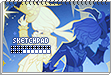
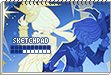
Fix furina

Changed region(s): [[0.0811, 0.6133, 0.4595, 0.72]]

diff --git a/public/cards/keepingcardsN-Z.html b/public/cards/keepingcardsN-Z.html
@@ -1,57 +1,62 @@
-<!DOCTYPE html>
+<!doctype html>
 <html>
     <head>
-        <meta charset="UTF-8">
-        <meta name="viewport" content="width=100%, initial-scale=.4">
+        <meta charset="UTF-8" />
+        <meta name="viewport" content="width=100%, initial-scale=.4" />
         <title>keeping cards N-Z</title>
-        <link href="style.css" rel="stylesheet" type="text/css" media="all">
-        <script type="text/javascript" src="UPDATEcolorstcgdeckdata.js"></script> <!-- DO NOT REMOVE -->
-        <script type="text/javascript" src="UPDATEkeepingcards.js"></script> <!-- DO NOT REMOVE -->
-        <script type="text/javascript" src="UPDATEplayerinfo.js"></script> <!-- DO NOT REMOVE -->
-        <script type="text/javascript" src="functions.js"></script> <!-- DO NOT REMOVE -->
+        <link href="style.css" rel="stylesheet" type="text/css" media="all" />
+        <script type="text/javascript" src="UPDATEcolorstcgdeckdata.js"></script>
+        <!-- DO NOT REMOVE -->
+        <script type="text/javascript" src="UPDATEkeepingcards.js"></script>
+        <!-- DO NOT REMOVE -->
+        <script type="text/javascript" src="UPDATEplayerinfo.js"></script>
+        <!-- DO NOT REMOVE -->
+        <script type="text/javascript" src="functions.js"></script>
+        <!-- DO NOT REMOVE -->
         <script>
             window.onload = () => {
                 setWebsiteHeader();
                 setCredits();
                 insertImages("keeping", "NZ"); // fullcollectioncontainer
-            }
-        </script> <!-- DO NOT REMOVE -->
+            };
+        </script>
+        <!-- DO NOT REMOVE -->
     </head>
     <body>
         <!-- website header including navigation bar -->
-        <center>
-        <div id="websiteheadercontainer"></div>
+        <div style="text-align: center">
+            <div id="websiteheadercontainer"></div>
 
-        <!-- rest of the website -->
-        <div id="middle" class="">
-            <p><b>N-Z keeping cards</b></p>
-            <p>duplicates:</p>
-            <textarea id="duplicatestextarea"></textarea>
+            <!-- rest of the website -->
+            <div id="middle" class="">
+                <p><b>N-Z keeping cards</b></p>
+                <p>duplicates:</p>
+                <textarea id="duplicatestextarea"></textarea>
 
-            <div>
-                <p style="display:inline-block;">show color:</p>
-                <input type="checkbox" id="showAll" name= "input" value="sort" checked>
-                <label for="showAll">all</label>
-                <input type="checkbox" id="showRed" name= "input" value="sort">
-                <label for="showRed">red</label>
-                <input type="checkbox" id="showOrange" name= "input" value="sort">
-                <label for="showOrange">orange</label>
-                <input type="checkbox" id="showYellow" name= "input" value="sort">
-                <label for="showYellow">yellow</label>
-                <input type="checkbox" id="showGreen" name= "input" value="sort">
-                <label for="showGreen">green</label>
-                <input type="checkbox" id="showBlue" name= "input" value="sort">
-                <label for="showBlue">blue</label>
-                <input type="checkbox" id="showPurple" name= "input" value="sort">
-                <label for="showPurple">purple</label>
-                <input type="checkbox" id="showBrown" name= "input" value="sort">
-                <label for="showBrown">brown</label>
-                <input type="checkbox" id="showGrey" name= "input" value="sort">
-                <label for="showGrey">grey</label>
-                <input type="checkbox" id="showSpecial" name= "input" value="sort">
-                <label for="showSpecial">special</label>
+                <div>
+                    <p style="display: inline-block">show color:</p>
+                    <input type="checkbox" id="showAll" name="input" value="sort" checked />
+                    <label for="showAll">all</label>
+                    <input type="checkbox" id="showRed" name="input" value="sort" />
+                    <label for="showRed">red</label>
+                    <input type="checkbox" id="showOrange" name="input" value="sort" />
+                    <label for="showOrange">orange</label>
+                    <input type="checkbox" id="showYellow" name="input" value="sort" />
+                    <label for="showYellow">yellow</label>
+                    <input type="checkbox" id="showGreen" name="input" value="sort" />
+                    <label for="showGreen">green</label>
+                    <input type="checkbox" id="showBlue" name="input" value="sort" />
+                    <label for="showBlue">blue</label>
+                    <input type="checkbox" id="showPurple" name="input" value="sort" />
+                    <label for="showPurple">purple</label>
+                    <input type="checkbox" id="showBrown" name="input" value="sort" />
+                    <label for="showBrown">brown</label>
+                    <input type="checkbox" id="showGrey" name="input" value="sort" />
+                    <label for="showGrey">grey</label>
+                    <input type="checkbox" id="showSpecial" name="input" value="sort" />
+                    <label for="showSpecial">special</label>
 
-                <!--<p style="display:inline-block; margin-left: 40px;">sort by</p>
+                    <!--<p style="display:inline-block; margin-left: 40px;">sort by</p>
                 <input type="radio" id="sortbyall" name= "input" value="sort" checked>
                 <label for="sortbyall">all</label>
                 <input type="radio" id="sortbycolors" name= "input" value="sort">
@@ -59,23 +64,18 @@
                 <input type="radio" id="sortbyseries" name= "input" value="sort">
                 <label for="sortbyseries">series</label>-->
 
-                <button onclick="filter()" style="padding: 10px; margin-left: 30px;">filter</button>
+                    <button onclick="filter()" style="padding: 10px; margin-left: 30px">filter</button>
 
-                <br>
+                    <br />
 
-                <p>search by card name, deck name, or series:</p>
-                <input id="searchbar" onkeyup="filter()" type="text"
-                name="search" placeholder="search...">
+                    <p>search by card name, deck name, or series:</p>
+                    <input id="searchbar" onkeyup="filter()" type="text" name="search" placeholder="search..." />
+                </div>
+
+                <div id="fullcollectioncontainer"></div>
             </div>
 
-            <div id="fullcollectioncontainer">
-            </div>
-
-
+            <div id="creditscontainer"><!-- DO NOT REMOVE --></div>
         </div>
-
-        <div id="creditscontainer"> <!-- DO NOT REMOVE -->
-        </div>
-        </center>
     </body>
 </html>

diff --git a/public/cards/log.html b/public/cards/log.html
@@ -1,9 +1,19 @@
 <!doctype html>
-<html>
+<html lang="en">
     <head>
+        <!-- Setting character encoding and viewport size. Do not remove. -->
         <meta charset="UTF-8" />
-        <meta name="viewport" content="width=100%, initial-scale=.4" />
+        <meta name="viewport" content="width=device-width, initial-scale=1.0" />
+
+        <!-- Site Title -->
         <title>logs</title>
+
+        <!-- Author -->
+        <meta name="author" content="Asuraid" />
+
+        <!-- Site Description -->
+        <meta content="Logs for Color TCG." name="description" />
+
         <link href="style.css" rel="stylesheet" type="text/css" media="all" />
         <script type="text/javascript" src="UPDATEkeepingcards.js"></script>
         <!-- DO NOT REMOVE -->
@@ -24,16 +34,16 @@
     </head>
     <body>
         <!-- website header including navigation bar -->
-        <center>
+        <div style="text-align: center">
             <div id="websiteheadercontainer"></div>
 
             <!-- rest of the website -->
             <div id="middle" class="">
-                <p><b>logs</b></p>
+                <h2>logs</h2>
                 <div id="collectionlogcontainer" style="text-align: left"><!-- DO NOT REMOVE --></div>
             </div>
 
             <div id="creditscontainer"><!-- DO NOT REMOVE --></div>
-        </center>
+        </div>
     </body>
 </html>

diff --git a/public/cards/index.html b/public/cards/index.html
@@ -6,13 +6,13 @@
         <meta name="viewport" content="width=device-width, initial-scale=1.0" />
 
         <!-- Site Title -->
-        <title>aid's small corner</title>
+        <title>aid's color tcg</title>
 
         <!-- Author -->
         <meta name="author" content="Asuraid" />
 
         <!-- Site Description -->
-        <meta content="A personal website." name="description" />
+        <meta content="A site for Colors TCG on Dreamwidth." name="description" />
 
         <link href="style.css" rel="stylesheet" type="text/css" media="all" />
         <script type="text/javascript" src="UPDATEkeepingcards.js"></script>
